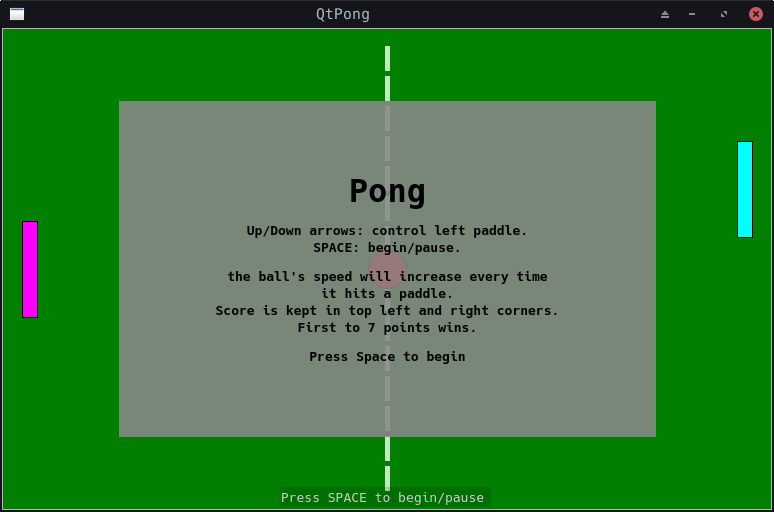
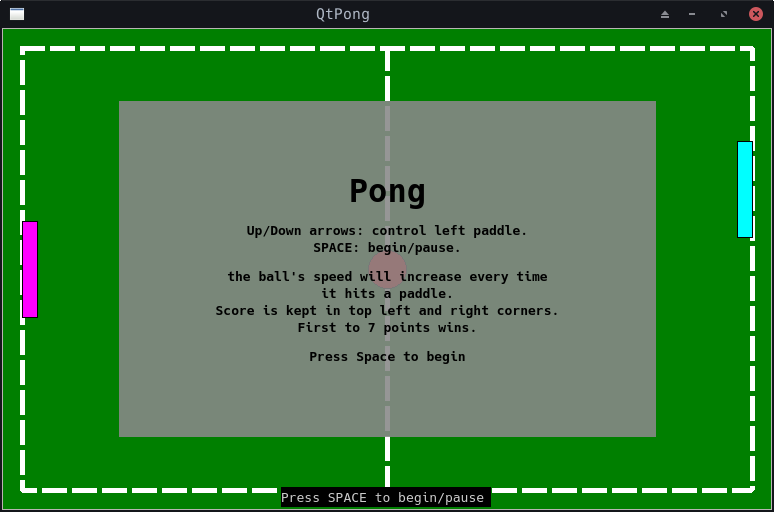
minor layout changes, fixed screenshots

Changed region(s): [[0.0, 0.4688, 0.9922, 1.0], [0.0, 0.0625, 0.9922, 0.4375]]

diff --git a/scene.cpp b/scene.cpp
@@ -19,18 +19,21 @@ Scene::Scene()
     win->setGeometry(scnWidth/2-scnWidth*0.1,scnHeight/3-scnHeight*0.1,scnWidth*0.2,scnHeight*0.2);
     win->setStyleSheet("background:#aa888888;color:#000000;");
     win->setAlignment(Qt::AlignCenter);
-    win->setText("aeou");
     win->raise();
     addWidget(win);
     win->hide();
 
-    QPen pen = QPen(QColor(255,255,255,200),5,Qt::DashLine);
+    QPen pen = QPen(QColor(255,255,255),5,Qt::DashLine);
     QGraphicsLineItem *centerLine = new QGraphicsLineItem();
     centerLine->setLine(scnWidth/2,margin,scnWidth/2,scnHeight- margin);
     centerLine->setPen(pen);
     centerLine->setZValue(-1);
     addItem(centerLine);
-
+    QGraphicsRectItem *bounds = new QGraphicsRectItem();
+    bounds->setRect(margin,margin,scnWidth-2*margin,scnHeight-2*margin);
+    bounds->setPen(pen);
+    bounds->setZValue(-1);
+    addItem(bounds);
 }
 
 void Scene::keyPressEvent(QKeyEvent *e) {

diff --git a/score.cpp b/score.cpp
@@ -7,10 +7,10 @@ Score::Score(int score, int player)
 
     if(player == 1) {
         setBrush(leftColor);
-        setPos(margin*2+pWidth+score*rect().width()+score*margin/2,margin);
+        setPos(margin*2+pWidth+score*rect().width()+score*margin/2,margin*1.5);
     }
     else if(player == 2) {
         setBrush(rightColor);
-        setPos(scnWidth-(margin*2+pWidth+score*rect().width()+score*margin/2)-scoreSize,margin);
+        setPos(scnWidth-(margin*2+pWidth+score*rect().width()+score*margin/2)-scoreSize,margin*1.5);
     }
 }

diff --git a/main.cpp b/main.cpp
@@ -51,7 +51,7 @@ int main(int argc, char **argv) {
     QGraphicsView *view = new QGraphicsView();
     //help menu
     QLabel *help = new QLabel("Press SPACE to begin/pause",view);
-    help->setStyleSheet("background:#22000000;color:#cccccc;");
+    help->setStyleSheet("background:#000000;color:#cccccc;");
     help->setGeometry(scnWidth/2-210/2,scnHeight-21,210,20);
     help->show();
     view->setScene(gameScene);
